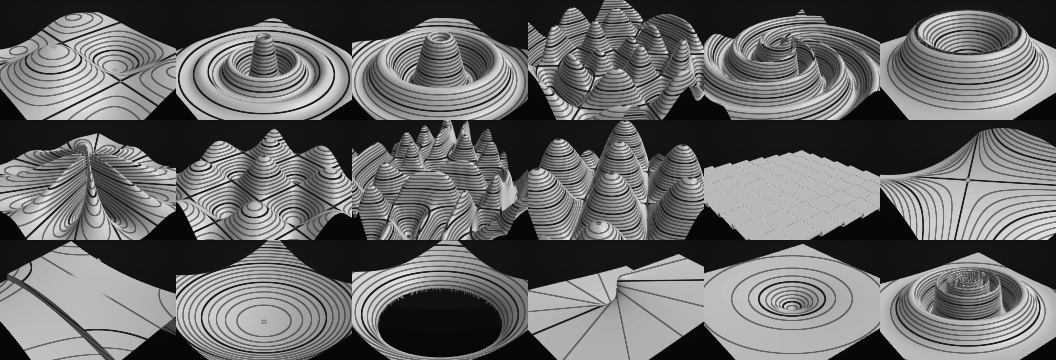
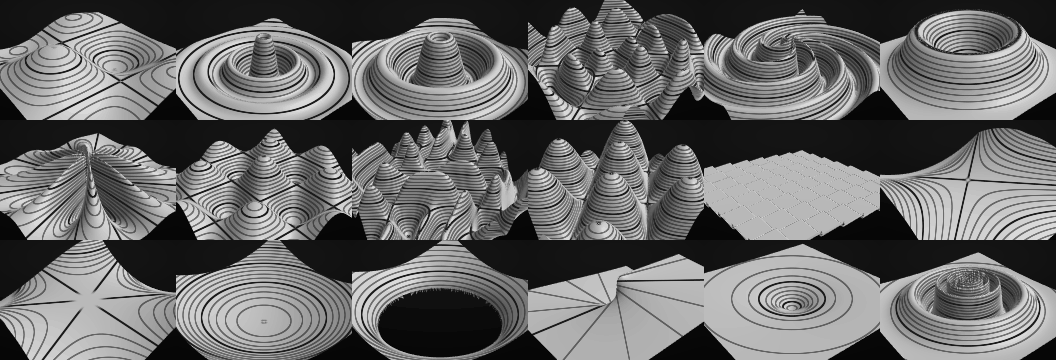
Write the monkey saddle with a power, since the caret is exclusive or
The preset called monkey saddle was written x^3-3*x*y*y. In this parser the
caret is bitwise exclusive or and not a power: at x=3, y=2 that expression is
-36 where a monkey saddle is -9, because 3 xor 3 is nought and what remains is
-3xy^2. Over the declared square it drew a folded sheet with a crease down the
middle - three flat terraces from the xor, tilted by the term that survived.

Nobody typing a surface formula means exclusive or, so the caret in one is a
misprint for **, and that is a thing a machine can check even though whether a
picture looks like a saddle is not. A gate reads every preset formula on the
page and refuses a caret in any of them, naming the case that put it there.

The strip of thumbnails is drawn from the presets on the page rather than from a
list of its own, so the thumbnail was wrong in the same way and is redrawn by
the same command. Every other cell moved as well, by no more than seven levels
of brightness out of 255: the strip is saved with an adaptive palette of
sixty-four colours, and changing one cell re-picks the palette for all of them.
Checked cell by cell rather than assumed - the monkey saddle moved by 204.

The same formula is in web/preview.html in the library repository, which the
page here grew from. It is corrected there too, in a working tree that is
published by its own procedure rather than from here.

Changed region(s): [[0.0, 0.6417, 0.1875, 1.0]]

diff --git a/demo/index.html b/demo/index.html
@@ -2588,7 +2588,7 @@ const SAMPLES = [
   { n:"saddle",        g:"forms",  z:0.3,  d:[-1,1,-1,1],
     f:"x*x-y*y" },
   { n:"monkey saddle", g:"forms",  z:0.3,  d:[-1,1,-1,1],
-    f:"x^3-3*x*y*y" },
+    f:"x**3-3*x*y*y" },
   { n:"bowl",          g:"forms",  z:0.3,  d:[-1,1,-1,1],
     f:"x*x+y*y" },
 
